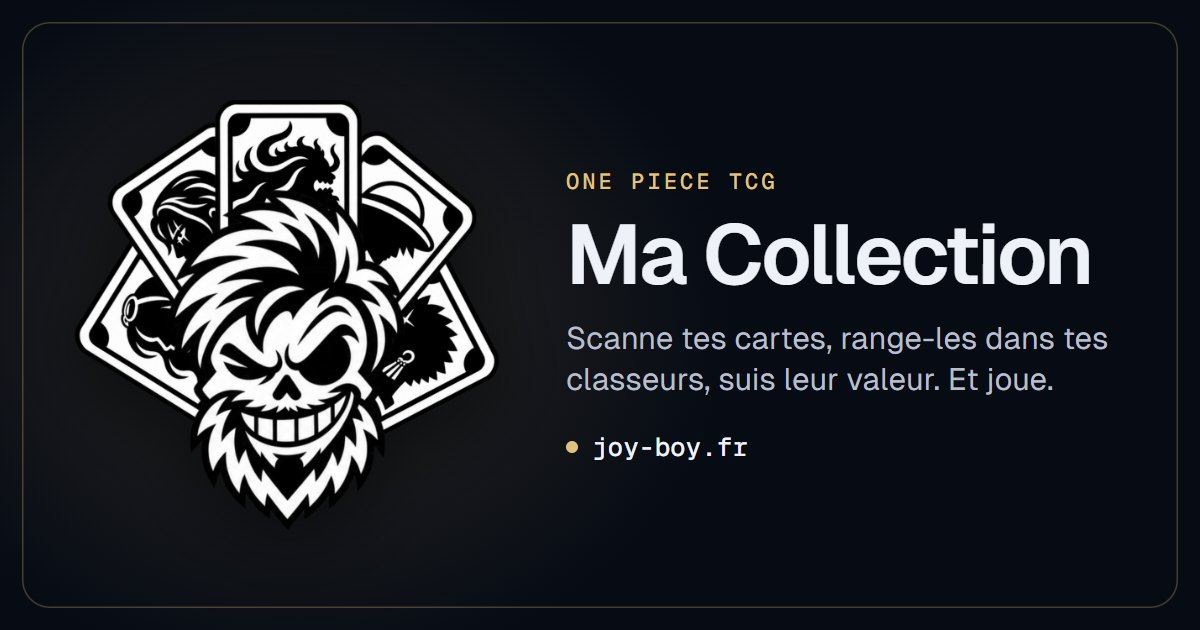
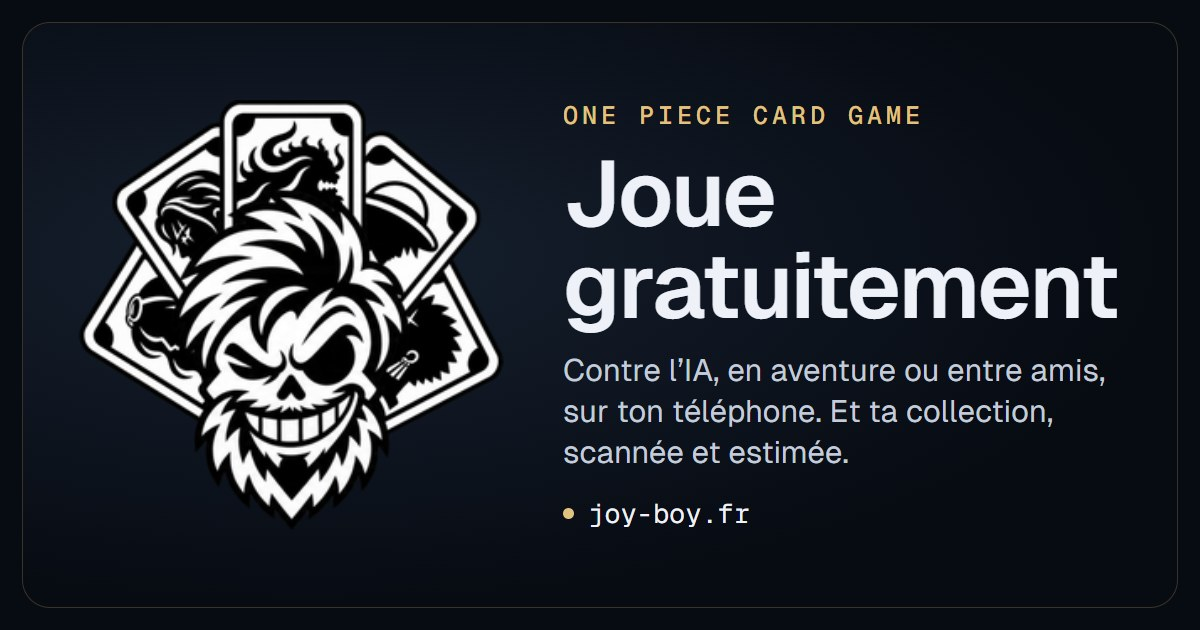
Première visite et retour : joueurs du même Wi-Fi, onglet Jouer rouvert, aperçu du lien
- essais sans compte : 30 par heure et par adresse (au lieu de 5), pour une boutique,
  un club ou une salle de tournoi derrière le même Wi-Fi
- l'appli rouverte sans adresse revient sur Jouer pour qui y jouait
- partie guidée : l'IA ne contre que pour sauver sa dernière Vie (première partie
  gagnée presque toujours en suivant le coach, un Contre adverse vu au moment décisif)
- image d'aperçu des liens partagés tournée vers le jeu ; README (FR/EN) à jour
- page d'accueil un peu plus large sur ordinateur

diff --git a/game/tests/lessons.test.ts b/game/tests/lessons.test.ts
@@ -5,7 +5,7 @@ import { test } from 'node:test';
 import { heuristicChooser } from '../ai/heuristic.ts';
 import { act, newGame } from '../engine/engine.ts';
 import type { GameState, PlayerId } from '../engine/types.ts';
-import { LEARN_CONFIG, LESSON_ORDER, lessonFor, lessonPreempts, lessonStillFits, lessonText, nextShown, type LessonId } from '../ui/learn/lessons.ts';
+import { gentleChoice, LEARN_CONFIG, LESSON_ORDER, lessonFor, lessonPreempts, lessonStillFits, lessonText, nextShown, type LessonId } from '../ui/learn/lessons.ts';
 
 const HUMAN: PlayerId = 0;
 
@@ -95,4 +95,28 @@ test('leçons : une leçon pas encore lue n’est remplacée que par une situati
   }
   assert.equal(lessonPreempts('counter'), true);
   assert.equal(lessonPreempts('giveDon'), false);
+});
+
+test('partie guidée : l’IA ne contre que pour sauver sa dernière Vie, et la partie se gagne le plus souvent', () => {
+  let wins = 0;
+  let counters = 0;
+  const N = 40;
+  for (let seed = 1; seed <= N; seed++) {
+    let s = newGame({ decks: [LEARN_CONFIG.myDeck, LEARN_CONFIG.aiDeck], names: ['Toi', 'IA'], first: HUMAN, seed });
+    for (let i = 0; i < 4000 && s.winner === null && s.decision; i++) {
+      const d = s.decision;
+      let c = heuristicChooser(s, d);
+      if (d.player !== HUMAN) {
+        c = gentleChoice(s, c);
+        if (d.kind === 'counter' && c !== 'pass') {
+          counters++;
+          assert.equal(s.players[d.player].life.length, 0, 'contre seulement sans Vie');
+        }
+      }
+      s = act(s, c);
+    }
+    if (s.winner === HUMAN) wins++;
+  }
+  assert.ok(wins / N >= 0.85, `${wins} victoires sur ${N}`);
+  assert.ok(counters > 0, 'l’IA contre encore au moment décisif');
 });

diff --git a/game/ui/game/useAiOpponent.ts b/game/ui/game/useAiOpponent.ts
@@ -26,7 +26,9 @@ export interface AiOpponent {
   forget: () => void;      // retour en arrière : plus de décisions gardées
 }
 
-export function useAiOpponent(game: GameState | null, setGame: Dispatch<SetStateAction<GameState | null>>, ai: PlayerId, level: Level, speed: number): AiOpponent {
+// soften : corrige le choix de l'IA (partie guidée « Apprendre à jouer », learn/lessons.ts : gentleChoice)
+export function useAiOpponent(game: GameState | null, setGame: Dispatch<SetStateAction<GameState | null>>, ai: PlayerId, level: Level, speed: number,
+  soften?: (s: GameState, choice: string) => string): AiOpponent {
   const [thinking, setThinking] = useState(false);
   const [paused, setPaused] = useState(false);
   const [held, setHeld] = useState(false);
@@ -48,8 +50,9 @@ export function useAiOpponent(game: GameState | null, setGame: Dispatch<SetState
       : d.inEffect || level === 1 || level === 4 || d.options.length === 1
         ? Promise.resolve(heuristicChooser(current, d))
         : worker().choose(current, level);
-    pick.then((choice) => {
+    pick.then((picked) => {
       if (cancelled) return;
+      const choice = soften ? soften(current, picked) : picked;
       timer = setTimeout(() => {
         const play = () => {
           release.current = null;
@@ -73,7 +76,7 @@ export function useAiOpponent(game: GameState | null, setGame: Dispatch<SetState
       setThinking(false);
       setHeld(false);
     };
-  }, [game, setGame, ai, level, speed]);
+  }, [game, setGame, ai, level, speed, soften]);
 
   const pause = useCallback(() => {
     pace.current = { paused: true, credit: 0 };

diff --git a/web/src/cale/Shell.tsx b/web/src/cale/Shell.tsx
@@ -53,8 +53,21 @@ function screen({ page, parts }: Route, openedCard: boolean): ReactNode {
   }
 }
 
+// Dernier onglet principal utilisé (Accueil ou Jouer) : l'appli rouverte sans adresse (lien du site, icône de l'appli
+// installée) revient sur Jouer pour qui y jouait, au lieu de l'accueil de la collection
+const LAST_TAB = 'tcgc.lastTab';
+
+function startRoute(): Route {
+  try {
+    if ((window.location.hash === '' || window.location.hash === '#') && localStorage.getItem(LAST_TAB) === 'play') {
+      window.history.replaceState(window.history.state, '', '#play');
+    }
+  } catch { /* stockage indisponible : l'accueil */ }
+  return readRoute();
+}
+
 export function Shell() {
-  const [route, setRoute] = useState<Route>(readRoute);
+  const [route, setRoute] = useState<Route>(startRoute);
   const { user, uiLang, openedCard, toastMessage } = useApp();
   // Partie en cours dans l'onglet Jouer : le jeu prend tout l'écran, sans dock
   const [immersive, setImmersive] = useState(false);
@@ -65,6 +78,11 @@ export function Shell() {
     refreshPushSubscription();
     return () => window.removeEventListener('hashchange', onHash);
   }, []);
+
+  useEffect(() => {
+    if (route.page !== 'home' && route.page !== 'play') return;
+    try { localStorage.setItem(LAST_TAB, route.page); } catch { /* stockage indisponible */ }
+  }, [route.page]);
 
   // Une page s'ouvre en haut (sauf le retour dans l'historique, que le navigateur gère)
   const key = `${route.page}/${route.parts.join('/')}`;

diff --git a/web/src/i18n.ts b/web/src/i18n.ts
@@ -39,7 +39,7 @@ const fr = {
   'auth.playTagline': 'Gratuit, dans ton navigateur, sur téléphone comme sur ordinateur.',
   'auth.playFeatCards': 'Plus de 2 800 cartes jouables, règles officielles',
   'auth.playFeatAi': 'Une IA à ta mesure et un coach qui explique tes erreurs',
-  'auth.playFeatFriends': 'Défie tes amis en ligne avec un simple code',
+  'auth.playFeatFriends': 'Défie tes amis ou d’autres joueurs en ligne',
   'auth.playFeatAdventure': 'Une aventure à East Blue, des boosters à ouvrir',
   'auth.playFeatCollection': 'Et ta collection : scanne tes cartes, suis leur valeur',
   'auth.playNow': 'Jouer maintenant',
@@ -286,7 +286,7 @@ const en: { [K in MessageKey]: Entry } = {
   'auth.playTagline': 'Free, in your browser, on your phone or your computer.',
   'auth.playFeatCards': 'Over 2,800 playable cards, official rules',
   'auth.playFeatAi': 'An AI at your level and a coach that explains your mistakes',
-  'auth.playFeatFriends': 'Challenge your friends online with a simple code',
+  'auth.playFeatFriends': 'Challenge your friends or other players online',
   'auth.playFeatAdventure': 'An East Blue adventure, boosters to open',
   'auth.playFeatCollection': 'And your collection: scan your cards, track their value',
   'auth.playNow': 'Play now (in French)',

diff --git a/server/auth.js b/server/auth.js
@@ -218,10 +218,15 @@ export async function signup(req, res) {
 
 // Essai sans compte : un utilisateur sans identifiant utilisable (pseudo hors du format permis, e-mail en .invalid,
 // mot de passe impossible), marqué guest. Création limitée par adresse IP et au total, contre les robots.
+// Essais par heure depuis une même adresse : assez pour une boutique, un club ou une salle de tournoi derrière le même
+// Wi-Fi (le site s'y recommande de joueur à joueur), trop peu pour qu'une seule adresse épuise le plafond commun
+export const GUEST_PER_ADDRESS = 30;
+export const GUEST_PER_BLOCK = 60;
+
 export function startGuest(req, res) {
   // par adresse d'abord : une seule adresse (ou un seul /64, un seul /48) ne peut pas épuiser le plafond commun
-  rateLimit(`guest:${ipKey(req)}`, 5, 60 * 60_000);
-  if (ipKey(req, 3) !== ipKey(req)) rateLimit(`guest:${ipKey(req, 3)}`, 20, 60 * 60_000);
+  rateLimit(`guest:${ipKey(req)}`, GUEST_PER_ADDRESS, 60 * 60_000);
+  if (ipKey(req, 3) !== ipKey(req)) rateLimit(`guest:${ipKey(req, 3)}`, GUEST_PER_BLOCK, 60 * 60_000);
   rateLimit('guest:all', 300, 60 * 60_000);
   const id = crypto.randomBytes(8).toString('hex');
   const { lastInsertRowid } = db.prepare(`INSERT INTO users (pseudo, email, password_hash, created_at, guest)

diff --git a/game/ui/App.tsx b/game/ui/App.tsx
@@ -32,7 +32,7 @@ import { CoachTab } from './table/SidePanel.tsx';
 import { LeaveDialog, TableScreen } from './table/TableScreen.tsx';
 import { useGameKeys } from './table/useGameKeys.ts';
 import { useTable } from './table/useTable.ts';
-import { LEARN_CONFIG } from './learn/lessons.ts';
+import { gentleChoice, LEARN_CONFIG } from './learn/lessons.ts';
 import { LessonBubble, useLessons } from './learn/LessonBubble.tsx';
 
 const HUMAN: PlayerId = 0;
@@ -113,7 +113,7 @@ export function App({ onImmersive, configured, home, initialResume, initialLearn
   const { game, practice } = rec;
   const session = rec.session ?? configState;
   // l'IA, sa pause et ses dernières décisions (revues dans la bande centrale)
-  const opponent = useAiOpponent(game, rec.setGame, AI, session.level, settings.speed);
+  const opponent = useAiOpponent(game, rec.setGame, AI, session.level, settings.speed, session.learn ? gentleChoice : undefined);
   const coach = useCoach({
     // partie guidée : le conseil du coach (★) à chacune de tes décisions
     game, human: HUMAN, humanTurn: rec.humanTurn, autoCoach: settings.autoCoach || Boolean(session.learn),

diff --git a/game/ui/learn/lessons.ts b/game/ui/learn/lessons.ts
@@ -19,6 +19,15 @@ export interface Lesson {
 // l'aventure, fait pour débuter : parties courtes, gagnables), IA Débutant, tu commences
 export const LEARN_CONFIG: Config = { myDeck: 'ST-01', aiDeck: 'AV-EB-MORGAN', first: 'me', level: 1, learn: true };
 
+// L'IA de la partie guidée ne contre que pour sauver sa dernière Vie : la première partie se gagne presque toujours en
+// suivant le coach (93 % pour l'IA simple contre elle, au lieu de 64 %), en 9 tours environ, et le joueur voit quand
+// même un Contre adverse au moment décisif
+export function gentleChoice(s: GameState, choice: string): string {
+  const d = s.decision;
+  if (!d || d.kind !== 'counter' || choice === 'pass' || !d.options.some((o) => o.id === 'pass')) return choice;
+  return s.players[d.player].life.length === 0 ? choice : 'pass';
+}
+
 // Ordre de lecture : sert à numéroter les leçons (« 3 / 11 »)
 export const LESSON_ORDER: LessonId[] = ['welcome', 'don', 'endTurn', 'oppTurn', 'attack', 'giveDon', 'counter', 'blocker', 'life', 'trigger', 'finish'];
 

diff --git a/web/src/legacy.css b/web/src/legacy.css
@@ -217,7 +217,7 @@
   background: radial-gradient(ellipse at top, #1f3357, var(--bg) 60%);
 }
 .legacy .auth-lang { position: absolute; top: calc(14px + env(safe-area-inset-top, 0px)); right: 16px; }
-.legacy .auth-hero { text-align: center; max-width: 360px; }
+.legacy .auth-hero { text-align: center; max-width: 440px; }
 .legacy .auth-logo { display: block; width: 96px; height: 96px; margin: 0 auto; object-fit: contain; }
 .legacy .auth-hero h1 { margin: 8px 0 6px; font-size: 28px; }
 .legacy .auth-hero p { margin: 0; }

diff --git a/README.fr.md b/README.fr.md
@@ -212,13 +212,17 @@ Mesures sur des photos simulées (inclinaison, reflet, flou, fond) : la bonne ca
 ## Jouer
 
 L'onglet **Jouer** est un simulateur du jeu pour s'entraîner contre une IA, avec un coach qui analyse chacune
-de tes décisions (ancien projet OP Coach, dans le dossier `game/`) :
+de tes décisions (ancien projet OP Coach, dans le dossier `game/`). Il s'essaie sans inscription (« Jouer
+maintenant » sur la page d'accueil) :
 
+- **Apprendre à jouer** : pour qui découvre le jeu, une vraie partie guidée contre l'IA Débutant, le conseil du coach
+  à chaque décision et une leçon courte au moment où chaque règle sert (DON!!, attaque, Contre, Bloqueur, Vie,
+  Déclenchement…) ;
 - **15 decks** : les decks pour débutant ST-21, ST-22, ST-30 et ST-31 à ST-36, et 6 decks du méta d'octobre 2026
   (Sabo, Mihawk, Nico Robin, Rocks D. Xebec, Ener, Kaido), avec un guide par deck (plan de jeu, combinaisons, main
   de départ) ;
 - **Mes decks** : un éditeur pour construire ses propres decks (téléphone d'abord) à partir d'un Leader, d'un deck
-  préconstruit copié ou d'une liste collée (« 4xOP13-008 »). Il ne propose que les cartes que le jeu sait jouer,
+  préconstruit copié ou d'une liste collée (« 4xOP13-008 », formats de Limitless et des simulateurs). Il ne propose que les cartes que le jeu sait jouer,
   vérifie les règles de construction, signale les cartes bannies ou limitées, montre la courbe des coûts, et dit
   quelles cartes manquent à ta collection pour le construire en vrai, avec leur prix (et les ajoute à tes recherches).
   Un deck perso se joue contre l'IA (qui ne connaît pas ta liste) et en ligne (ton ami ne la voit pas) ;
@@ -228,8 +232,9 @@ de tes décisions (ancien projet OP Coach, dans le dossier `game/`) :
   tournants, courbe des chances de gagner, « rejouer ce moment ») ;
 - **Mes parties** : chaque partie est enregistrée sur ton compte avec tous ses détails ; progression, axes de
   progrès par thème et habitudes. Les parties de l'ancien OP Coach s'importent avec le bouton ⤒ ;
-- **Jouer avec un ami en ligne** : crée une salle, envoie son code (ou le lien) à ton ami, il la rejoint avec son
-  compte et la partie commence. Le serveur arbitre : chacun ne reçoit que ce qu'il verrait à une vraie table (ni la
+- **Jouer avec un ami en ligne** : crée une salle, envoie son code (ou le lien) à ton ami, il la rejoint (même sans
+  compte, il est alors « Invité ») et la partie commence. Une **salle publique** apparaît dans la liste de tous les
+  joueurs, qui la rejoignent sans code. Le serveur arbitre : chacun ne reçoit que ce qu'il verrait à une vraie table (ni la
   main ni le deck de l'autre), le coach et ses conseils sont désactivés, la partie reprend après une coupure, et elle
   est rangée dans « Mes parties » des deux joueurs.
 

diff --git a/README.md b/README.md
@@ -204,12 +204,15 @@ Prices don't depend on the language (Cardmarket's public price data doesn't sepa
 ## Play
 
 The **Play** tab is a game simulator to practice against an AI, with a coach that reviews each of your decisions
-(formerly the OP Coach project, in the `game/` folder):
+(formerly the OP Coach project, in the `game/` folder). It can be tried without signing up ("Play now" on the
+home page):
 
+- **Learn to play**: for newcomers, a real guided game against the Beginner AI, with the coach's advice on every
+  decision and a short lesson at the moment each rule matters (DON!!, attacks, Counter, Blocker, Life, Trigger…);
 - **15 decks**: the starter decks ST-21, ST-22, ST-30 and ST-31 to ST-36, and 6 meta decks from October 2026 (Sabo,
   Mihawk, Nico Robin, Rocks D. Xebec, Enel, Kaido), each with a guide (game plan, combos, opening hand);
 - **My decks**: a deck builder (phone first), starting from a Leader, a copied preconstructed deck or a pasted list
-  ("4xOP13-008"). It only offers the cards the game can already play, checks the deck building rules, flags banned or
+  ("4xOP13-008", Limitless and simulator formats). It only offers the cards the game can already play, checks the deck building rules, flags banned or
   restricted cards, shows the cost curve, and tells which cards your collection is missing to build it for real, with
   their price (and adds them to your wishlist). A custom deck can be played against the AI (which does not know your
   list) and online (your friend cannot see it);
@@ -219,8 +222,9 @@ The **Play** tab is a game simulator to practice against an AI, with a coach tha
   points, win-chance curve, "replay this moment");
 - **My games**: every game is saved to your account with all its details; progress, areas to improve by theme,
   and habits. Games from the former OP Coach can be imported with the ⤒ button;
-- **Play a friend online**: create a room, send its code (or the link) to your friend, who joins with their account,
-  and the game starts. The server is the referee: each player only receives what they would see at a real table
+- **Play a friend online**: create a room, send its code (or the link) to your friend, who joins (even without an
+  account, as "Guest") and the game starts. A **public room** shows up in every player's list, and anyone can join
+  it without a code. The server is the referee: each player only receives what they would see at a real table
   (never the other's hand or deck), the coach and its advice are off, the game resumes after a disconnection, and it
   is saved in both players' "My games".
 
